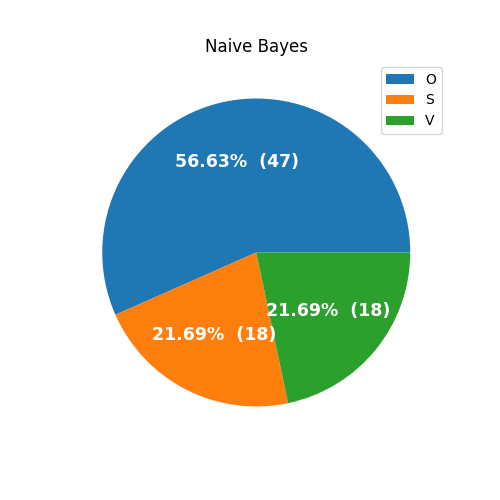
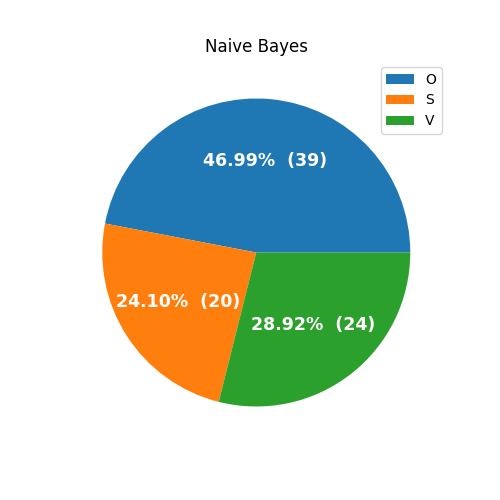
improved model prediction: numerized data columns for model prediction, auto remove old report file

Changed region(s): [[0.18, 0.45, 0.78, 0.84], [0.33, 0.3, 0.66, 0.36]]

diff --git a/analyze_cleaned_data.py b/analyze_cleaned_data.py
@@ -14,6 +14,7 @@ from sklearn.ensemble import RandomForestClassifier
 
 input_folder = "cleaned_data"
 output_folder = "analyzed_data"
+report_file = "classification_report.txt"
 
 OUTPUT_TEMPLATE_CLASSIFIER = (
     'Bayesian classifier: {bayes:.3g}\n'
@@ -21,6 +22,54 @@ OUTPUT_TEMPLATE_CLASSIFIER = (
     'Neural Network classifier: {nn:.3g}\n'
     'Random Forest classifier: {forest:.3g}\n'
 )
+
+# Convert DataFrame Columns into numbers so that models can read them
+def numerize_data(data):
+    # Hand_used: L = 0, R = 1
+    if (data['hand_used'] == 'L'):
+        data['hand_used'] = 0
+    else:
+        data['hand_used'] = 1
+
+    # Shape: O = 0, S = 1, V = 2
+    if (data['shape'] == 'O'):
+        data['shape'] = 0
+    elif (data['shape'] == 'S'):
+        data['shape'] = 1
+    else:
+        data['shape'] = 2
+
+    # Dominant_hand: L = 0, R = 1
+    if (data['dominant_hand'] == 'L'):
+        data['dominant_hand'] = 0
+    else:
+        data['dominant_hand'] = 1
+
+    # User number only
+    start_index = len('user')
+    data['user_no'] = int(data['user'][start_index:])
+    return data
+
+# Return necessary dataframes for models to analyze (choose only necessary columns for X)
+def get_stacked_dataframe(data):
+    # X = (data.iloc[:, -12:]) # From acc_x-std to  g-force_z-peaks
+    X = data.iloc[:,-17:] # From user to g-force_z-peaks
+    
+    X['user_no'] = 0 # Add column to numerize user column
+    X = X.apply(numerize_data, axis = 1)
+    X = X.drop(columns=['user', 'shape'])
+    # print(X)
+
+    y = data['shape']
+    return X, y
+
+# Removes existing report file
+def remove_report_file(report_file):
+    filepath = output_folder + '/' + report_file
+    if os.path.exists(filepath):
+        print("<Removing existing report file: " + report_file + ">")
+        os.remove(filepath)
+
 
 #predicts and saves classification report to report.txt
 #each classification is in order from bayes to forest
@@ -30,7 +79,7 @@ def clf_classification_report(label, m, X_test, y_test):
     shape_count = enumerate_y(y_pred)
     plot_predictions(shape_count, label)
     report = classification_report(y_test, y_pred)
-    with open(output_folder + '/' + 'classification_report.txt', 'a') as f:
+    with open(output_folder + '/' + report_file, 'a') as f:
         f.write('''\b'''+label+'\n')
         f.write(report)
         f.write('\n\n')
@@ -76,9 +125,8 @@ def plot_predictions(count, label):
 def analyze_data():
     print("Analyzing cleaned data")
     # TODO: read data from files
-    data = pd.read_csv(input_folder + '/' + '/result.csv')
-    X = (data.iloc[:, -11:])
-    y = data['shape']
+    data = pd.read_csv(input_folder + '/' + 'result.csv')
+    X, y = get_stacked_dataframe(data)
     # TODO: analyze
     X_train, X_test, y_train, y_test = train_test_split(X,y, test_size = 0.25, random_state = 1)
     
@@ -113,6 +161,9 @@ def analyze_data():
     models = [bayes_clf, knn_clf, nn_clf, forest_clf]
     labels = ["Naive Bayes", "K Neighbor", "Neural Network", "Random Forest"]
     
+    #removes existing classification report, preventing new data stacking on old data
+    remove_report_file(report_file)
+
     #fits each model and gets classification report
     for i, m in enumerate(models):
         m.fit(X_train, y_train)
